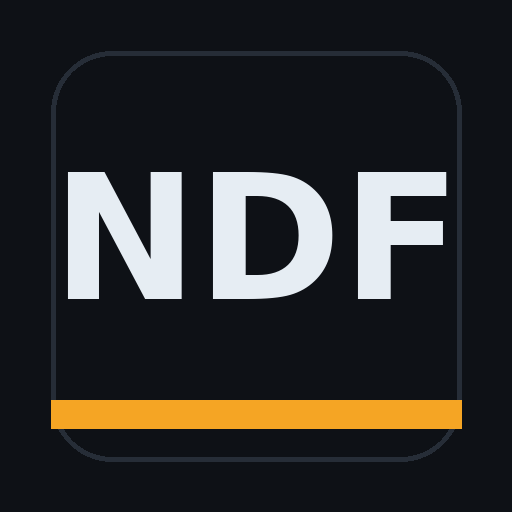
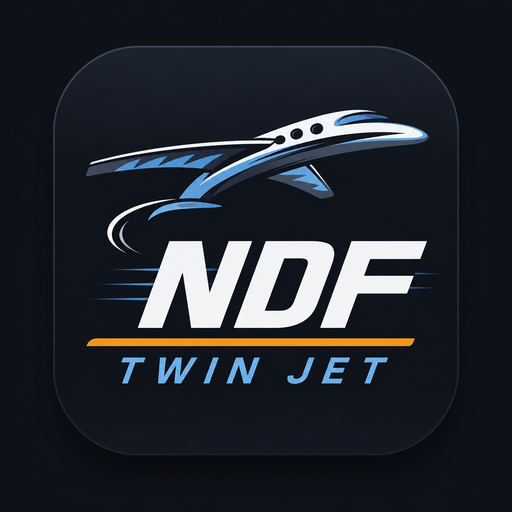
Add files via upload

Changed region(s): [[0.0938, 0.0938, 0.9062, 0.875], [0.1562, 0.875, 0.8438, 0.9062], [0.25, 0.0625, 0.75, 0.0938]]

diff --git a/index.html b/index.html
@@ -11,7 +11,7 @@
 <meta name="apple-mobile-web-app-capable" content="yes">
 <meta name="apple-mobile-web-app-status-bar-style" content="black">
 <meta name="apple-mobile-web-app-title" content="NDF">
-<link rel="apple-touch-icon" href="icon-192.png">
+<link rel="apple-touch-icon" href="apple-touch-icon.png">
 <style>
   :root{
     --ink:#0e1116; --panel:#161b22; --panel2:#1c232c; --line:#262d37;
@@ -471,81 +471,76 @@ function buildSheet(id){
   list.forEach(e=>{const ttc=effTTC(e);const{ht,tva}=splitHT(ttc,e.tva);tHT+=ht;tTVA+=tva;tTTC+=ttc;tTiers+=Number(e.tiers)||0;});
   const tKM=kms.reduce((s,k)=>s+kmTotal(k),0);
   const periode=n.type==="mission"?esc(n.date||""):esc(monthLabel(n.mois));
-  const veh=`${esc((kms[0]&&kms[0].marque)||n.vehMarque||"")}${((kms[0]&&kms[0].cv)||n.vehCV)?" "+esc((kms[0]&&kms[0].cv)||n.vehCV)+" CV":""}`;
-  const taux=kms[0]?num2(kms[0].taux||i.ik):"";
-  const ROWS=Math.max(29,list.length,kms.length+2);
-
+  /* Original : 24 rangées frais (11..34), 22 rangées km (11..32) + 2 totaux */
+  const FR=Math.max(24,list.length,kms.length+2);
+  const KR=FR-2;
   let fr="";
-  for(let r=0;r<ROWS;r++){const e=list[r];
+  for(let r=0;r<FR;r++){const e=list[r];
     if(e){const ttc=effTTC(e);const{ht,tva}=splitHT(ttc,e.tva);
       const lib=esc(e.libelle||"")+(e.repas?` (repas ×${e.couverts||1}${isCapped(e)?", plafonné":""})`:"");
-      fr+=`<tr><td>${esc(e.date||"")}</td><td>${esc(e.fournisseur||"")}</td><td class="lib">${lib}</td>`+
-          `<td class="num">${num2(ht)}</td><td class="num">${num2(tva)}</td><td class="num">${num2(ttc)}</td>`+
-          `<td class="num">${(Number(e.tiers)||0)?num2(e.tiers):""}</td></tr>`;
-    } else fr+=`<tr><td></td><td></td><td class="lib"></td><td class="num"></td><td class="num"></td><td class="num"></td><td class="num"></td></tr>`;
+      fr+=`<tr><td>${esc(e.date||"")}</td><td>${esc(e.fournisseur||"")}</td><td>${lib}</td><td>${num2(ht)}</td><td>${num2(tva)}</td><td>${num2(ttc)}</td><td>${(Number(e.tiers)||0)?num2(e.tiers):""}</td></tr>`;
+    } else fr+=`<tr><td></td><td></td><td></td><td></td><td></td><td></td><td></td></tr>`;
   }
-  let km="";const KROWS=ROWS-2;
-  for(let r=0;r<KROWS;r++){const k=kms[r];
-    if(k)km+=`<tr><td>${esc(k.depart||"")}</td><td>${esc(k.arrivee||"")}</td><td class="num">${num2(k.nbkm)}</td><td class="num">${num2(kmTotal(k))}</td></tr>`;
-    else km+=`<tr><td></td><td></td><td class="num"></td><td class="num"></td></tr>`;
+  let km="";
+  for(let r=0;r<KR;r++){const k=kms[r];
+    if(k)km+=`<tr><td>${esc(k.depart||"")}</td><td>${esc(k.arrivee||"")}</td><td>${num2(k.nbkm)}</td><td class="rt">${num2(kmTotal(k))}</td></tr>`;
+    else km+=`<tr><td></td><td></td><td></td><td class="rt"></td></tr>`;
   }
-  km+=`<tr class="ktot"><td colspan="3">TOTAL FRAIS KM</td><td class="num">${num2(tKM)}</td></tr>`;
-  km+=`<tr class="ttot"><td colspan="3">TOTAL FRAIS TTC</td><td class="num">${num2(tTTC)}</td></tr>`;
-
-  const cat=c=>`<span class="cb">${n.categorie===c?"✕":""}</span>${c}`;
+  km+=`<tr class="ktot"><td colspan="3">TOTAL FRAIS KM</td><td class="tv">${num2(tKM)}</td></tr>`;
+  km+=`<tr class="ttot"><td colspan="3">TOTAL FRAIS TTC</td><td class="tv">${num2(tTTC)}</td></tr>`;
+  const cb=c=>`<span class="cb">${n.categorie===c?"✕":""}</span>`;
+  const veh=`${esc((kms[0]&&kms[0].marque)||n.vehMarque||"")}${((kms[0]&&kms[0].cv)||n.vehCV)?" "+esc((kms[0]&&kms[0].cv)||n.vehCV)+" CV":""}`;
+  const taux=kms[0]?num2(kms[0].taux||i.ik):"";
 
   const inner=`<div class="tj">
-    <div class="spine"><div class="rot"><span class="stitle">TWINJET</span> <span class="ssub">PERSONNEL NAVIGANT</span></div></div>
-    <div class="main">
-      <div class="idrow">
-        <div class="lab">NOM</div><div class="val vnom">${esc(i.nom)}</div>
-        <div class="lab">Trigrame</div><div class="val">${esc(i.trigramme)}</div>
-        <div class="lab">Fonction</div><div class="val">${esc(i.fonction)}</div>
+   <div class="spine"><div class="rot"><span class="st">TWINJET</span><span class="ss">PERSONNEL NAVIGANT</span></div></div>
+   <div class="main">
+    <div class="hdr">
+      <div style="width:101px">NOM</div><div style="width:285px">${esc(i.nom)}</div><div style="width:127px">Trigrame</div><div style="width:257px">${esc(i.trigramme)}</div><div style="width:115px">Fonction</div><div style="width:162px">${esc(i.fonction)}</div>
+    </div>
+    <div class="zcats">
+      <div class="crow" style="top:8px">
+        <span class="cg" style="left:4px">${cb("Ligne")}<b>Ligne</b></span>
+        <span class="cg" style="left:221px">${cb("Charter")}<b>Charter</b></span>
+        <span class="cg" style="left:435px">${cb("Evasan")}<b>Evasan</b></span>
+        <span class="cg" style="left:744px">${cb("MEP")}<b>MEP</b></span>
       </div>
-      <div class="catrow">
-        <div class="cats">
-          <div>${cat("Ligne")}</div><div>${cat("Charter")}</div><div>${cat("Evasan")}</div><div>${cat("MEP")}</div>
-          <div>${cat("Commercial")}</div><div>${cat("Audit")}</div><div>${cat("Training/Formation")}</div><div>${cat("Administratif")}</div>
-        </div>
-        <div class="eq"><span class="k">Equipage :</span> ${esc(n.equipage||i.trigramme)}</div>
+      <div class="crow" style="top:36px">
+        <span class="cg" style="left:4px">${cb("Commercial")}<b>Commercial</b></span>
+        <span class="cg" style="left:221px">${cb("Audit")}<b>Audit</b></span>
+        <span class="cg" style="left:435px">${cb("Training/Formation")}<b>Training/Formation</b></span>
+        <span class="cg" style="left:744px">${cb("Administratif")}<b>Administratif</b></span>
       </div>
-      <div class="objrow">
-        <div class="ol">
-          <div class="objet"><span class="olab">Objet :</span> <span class="oval">${esc(n.objet||"")}</span></div>
-          <div class="dev">Devises et taux de conversion</div>
-        </div>
-        <div class="or">
-          <div class="veh"><span class="k">Véhicule : Marque CV</span><br>${veh}</div>
-          <div class="ik"><span class="k">Taux IK €</span><br>${taux}</div>
-        </div>
+      <div class="eqbox"><span class="u8">Equipage:</span> ${esc(n.equipage||i.trigramme)}</div>
+    </div>
+    <div class="zobj">
+      <div class="ob"><span class="olab">Objet :</span> <span class="oval">${esc(n.objet||"")}</span><span class="dev u8">Devises et taux de conversion</span></div>
+      <div class="ve"><span class="u8">Véhicule : Marque CV</span><div class="vv">${veh}</div></div>
+      <div class="ika"><span class="u8">Taux IK €</span><div class="vv">${taux}</div></div>
+    </div>
+    <div class="zbody">
+      <div class="fl">
+        <div class="fband">FRAIS</div>
+        <table class="tfr"><colgroup><col style="width:101px"><col style="width:120px"><col style="width:214px"><col style="width:76px"><col style="width:81px"><col style="width:70px"><col style="width:76px"></colgroup>
+          <thead><tr><th>Date</th><th>Fournisseur</th><th>Libellé</th><th>HT</th><th>TVA</th><th>TTC</th><th class="w2">DONT TIERS</th></tr></thead>
+          <tbody>${fr}</tbody></table>
       </div>
-      <div class="body">
-        <div class="left">
-          <div class="fraisband">FRAIS</div>
-          <table class="fr">
-            <thead><tr><th>Date</th><th>Fournisseur</th><th>Libellé</th><th class="num">HT</th><th class="num">TVA</th><th class="num">TTC</th><th class="num">DONT TIERS</th></tr></thead>
-            <tbody>${fr}</tbody>
-          </table>
-        </div>
-        <div class="right">
-          <table class="km">
-            <thead><tr><th>Départ</th><th>Arrivée</th><th class="num">NB KM</th><th class="num">Total €</th></tr></thead>
-            <tbody>${km}</tbody>
-          </table>
-        </div>
-      </div>
-      <div class="footrow">
-        <div class="fleft">
-          <div class="fcell"><span class="k">Observation</span></div>
-          <div class="fcell"><span class="k">Contrôle et validation</span></div>
-          <div class="fcell"><span class="k">Paiement</span></div>
-        </div>
-        <div class="gen"><div class="k">TOTAL GENERAL</div><div class="genv">${num2(tTTC+tKM)} €</div></div>
+      <div class="kr">
+        <table class="tkm"><colgroup><col style="width:75px"><col style="width:70px"><col style="width:66px"><col style="width:94px"></colgroup>
+          <thead><tr><th>Départ</th><th>Arrivée</th><th>NB KM</th><th>Total €</th></tr></thead>
+          <tbody>${km}</tbody></table>
       </div>
     </div>
+    <div class="zfoot">
+      <div class="fc" style="width:221px"><span class="u8">Observation</span></div>
+      <div class="fc" style="width:214px"><span class="u8">Contrôle et validation</span></div>
+      <div class="fc" style="width:305px"><span class="u8">Paiement</span></div>
+      <div class="tg" style="width:213px">TOTAL GENERAL</div>
+      <div class="tgv" style="width:94px">${num2(tTTC+tKM)} €</div>
+    </div>
+   </div>
   </div>
   <div class="ref">NOTE FRAIS V1 PN COMPTA 020524VB</div>`;
-
   const slug=(n.titre||n.vol||n.libelle||"note").toString().replace(/[^0-9A-Za-zÀ-ÿ]+/g,"_").slice(0,40);
   const fname=`NDF_${slug}_${periode.replace(/[^0-9A-Za-z]+/g,"-")}.pdf`;
   return {inner,fname};
@@ -553,76 +548,69 @@ function buildSheet(id){
 
 function pdfCSS(){return `
   *{box-sizing:border-box}
-  body{margin:0;background:#525659;color:#000;font-family:-apple-system,system-ui,Arial,sans-serif;font-size:11px}
-  .bar{position:sticky;top:0;display:flex;gap:12px;align-items:center;flex-wrap:wrap;background:#0b2545;color:#fff;padding:12px 16px;z-index:10}
+  body{margin:0;background:#525659;color:#000;font-family:Arial,'Helvetica Neue',Helvetica,sans-serif}
+  .bar{position:sticky;top:0;display:flex;gap:12px;align-items:center;flex-wrap:wrap;background:#0b2545;color:#fff;padding:12px 16px;z-index:10;font-size:15px}
   .bar button{background:#f5a524;color:#1a1306;border:none;border-radius:9px;font-weight:700;font-size:15px;padding:11px 16px;cursor:pointer;font-family:inherit}
   .bar span{font-size:12px;opacity:.85}
-  .page{background:#fff;max-width:1120px;margin:16px auto;padding:10px}
-  .tj{display:flex;border:2px solid #000}
-  .spine{position:relative;width:46px;border-right:2px solid #000}
-  .spine .rot{position:absolute;left:50%;top:50%;transform:translate(-50%,-50%) rotate(-90deg);white-space:nowrap;display:flex;align-items:baseline;gap:10px}
-  .spine .stitle{font-weight:800;font-style:italic;font-size:28px;letter-spacing:1px}
-  .spine .ssub{font-weight:700;font-style:italic;font-size:20px;letter-spacing:.5px}
-  .main{flex:1;min-width:0}
-  .k{font-size:8px;letter-spacing:.3px;color:#111;font-weight:700;font-style:italic;text-decoration:underline}
-  .idrow{display:flex;border-bottom:2px solid #000}
-  .idrow .lab{padding:4px 8px;border-right:1px solid #000;font-style:italic;font-weight:700;font-size:11px;display:flex;align-items:center;justify-content:center;white-space:nowrap}
-  .idrow .val{flex:1;padding:4px 10px;border-right:1px solid #000;font-style:italic;font-weight:700;font-size:13px;display:flex;align-items:center;justify-content:center}
-  .idrow .val.vnom{flex:1.5;justify-content:flex-start}
-  .idrow .val:last-child{border-right:none}
-  .catrow{display:flex;border-bottom:2px solid #000}
-  .cats{flex:1;display:flex;flex-wrap:wrap;align-content:flex-start}
-  .cats>div{flex:0 0 25%;display:flex;align-items:center;gap:5px;padding:5px 9px;border-right:1px solid #000;border-bottom:1px solid #000;font-weight:700;font-size:11px}
-  .cats>div:nth-child(4n){border-right:none}
-  .cats>div:nth-child(n+5){border-bottom:none}
-  .cb{width:13px;height:13px;border:1.4px solid #000;display:inline-flex;align-items:center;justify-content:center;font-weight:700;line-height:1;flex:none}
-  .eq{flex:0 0 210px;border-left:2px solid #000;padding:6px 9px;font-weight:700}
-  .objrow{display:flex;border-bottom:2px solid #000}
-  .ol{flex:0 0 64%;display:flex}
-  .ol .objet{flex:0 0 62%;padding:5px 9px;border-right:1px solid #000;display:flex;align-items:center;gap:6px}
-  .ol .objet .olab{font-weight:700;font-style:italic;text-decoration:underline;font-size:15px;white-space:nowrap}
-  .ol .objet .oval{font-weight:400;font-style:normal;font-size:13px}
-  .ol .dev{flex:1;padding:5px 9px;text-align:center;font-style:italic;font-weight:700;font-size:9px;text-decoration:underline}
-  .or{flex:1;display:flex;border-left:2px solid #000}
-  .or .veh{flex:1;padding:4px 9px;border-right:1px solid #000;font-style:italic}
-  .or .ik{flex:0 0 92px;padding:4px 9px;font-style:italic}
-  .body{display:flex}
-  .left{flex:0 0 64%;border-right:2px solid #000}
-  .fraisband{background:#fdeada;border-bottom:1px solid #000;text-align:center;font-weight:700;height:18px;line-height:18px}
-  table{width:100%;border-collapse:collapse;table-layout:fixed}
-  table.fr th,table.fr td{border-right:1px solid #000;border-bottom:1px solid #000;padding:1px 5px;height:18px;overflow:hidden;white-space:nowrap;text-overflow:ellipsis}
-  table.fr th{background:#fdeada;font-style:italic;font-size:10px;height:30px;white-space:normal;line-height:1.05;vertical-align:middle}
-  table.fr td{background:#fdeada}
-  table.fr th:last-child,table.fr td:last-child{border-right:none}
-  table.fr th:nth-child(1),table.fr td:nth-child(1){width:11%}
-  table.fr th:nth-child(2),table.fr td:nth-child(2){width:18%}
-  table.fr th:nth-child(3),table.fr td:nth-child(3){width:31%}
-  table.fr th:nth-child(4),table.fr td:nth-child(4){width:9%}
-  table.fr th:nth-child(5),table.fr td:nth-child(5){width:9%}
-  table.fr th:nth-child(6),table.fr td:nth-child(6){width:9%}
-  table.fr th:nth-child(7),table.fr td:nth-child(7){width:13%}
-  .num{text-align:right;font-variant-numeric:tabular-nums}
-  .right{flex:1}
-  table.km th,table.km td{border-right:1px solid #000;border-bottom:1px solid #000;padding:1px 5px;height:18px;overflow:hidden;white-space:nowrap}
-  table.km th{background:#dddddd;font-style:italic;font-size:10px;height:48px;vertical-align:middle}
-  table.km td{background:#dddddd}
-  table.km th:last-child,table.km td:last-child{border-right:none}
-  table.km th:nth-child(1),table.km td:nth-child(1){width:30%}
-  table.km th:nth-child(2),table.km td:nth-child(2){width:30%}
-  table.km th:nth-child(3),table.km td:nth-child(3){width:18%}
-  table.km th:nth-child(4),table.km td:nth-child(4){width:22%}
-  table.km .ktot td{background:#dddddd;font-weight:700;text-align:left}
-  table.km .ktot td.num,table.km .ttot td.num{text-align:right}
-  table.km .ttot td{background:#fdeada;font-weight:700;text-align:left}
-  .footrow{display:flex;border-top:2px solid #000}
-  .fleft{flex:0 0 64%;display:flex;border-right:2px solid #000}
-  .fleft .fcell{flex:1;border-right:1px solid #000;padding:5px 9px;min-height:50px;font-style:italic}
-  .fleft .fcell:last-child{border-right:none}
-  .gen{flex:1;display:flex;flex-direction:column;align-items:center;justify-content:center;gap:4px}
-  .gen .k{font-weight:700;font-size:13px;color:#000;font-style:normal;text-decoration:none}
-  .gen .genv{font-weight:700;font-style:italic;text-decoration:underline;font-size:16px;font-family:ui-monospace,Menlo,monospace}
-  .ref{font-size:8px;color:#555;padding:5px 2px 0;font-family:ui-monospace,Menlo,monospace}
-  @media print{.bar{display:none}.page{margin:0;padding:0;max-width:none}body{background:#fff}@page{size:A4 landscape;margin:8mm}}
+  .page{background:#fff;width:1148px;margin:16px auto;padding:0}
+  .tj{display:flex;width:1148px;border:2px solid #000;background:#fff}
+  /* Bande verticale : TWINJET 36pt / PERSONNEL NAVIGANT 26pt, gras italique */
+  .spine{width:97px;border-right:2px solid #000;position:relative}
+  .rot{position:absolute;left:50%;top:50%;transform:translate(-50%,-50%) rotate(-90deg);white-space:nowrap;display:flex;align-items:baseline;gap:34px}
+  .st{font-size:48px;font-weight:bold;font-style:italic;letter-spacing:1px}
+  .ss{font-size:35px;font-weight:bold;font-style:italic;letter-spacing:.5px}
+  .main{width:1047px}
+  /* R2 : Arial 14 gras italique, centré, AUCUN séparateur vertical */
+  .hdr{display:flex;height:29px;border-bottom:2px solid #000;font-size:19px;font-weight:bold;font-style:italic}
+  .hdr div{display:flex;align-items:center;justify-content:center;overflow:hidden;white-space:nowrap}
+  /* Catégories : Arial 12 gras, cases = cellules bordées, zone ouverte sans traits */
+  .zcats{position:relative;height:63px;border-bottom:2px solid #000}
+  .crow{position:absolute;left:0;right:0;height:19px}
+  .cg{position:absolute;display:flex;align-items:center;gap:4px;height:19px;font-size:16px}
+  .cg b{font-weight:bold}
+  .cb{width:29px;height:19px;border:2px solid #000;display:inline-flex;align-items:center;justify-content:center;font-size:14px;font-weight:bold;flex:none}
+  .u8{font-size:11px;font-weight:bold;font-style:italic;text-decoration:underline}
+  .eqbox{position:absolute;right:0;top:8px;width:162px;height:46px;border:1px solid #000;padding:2px 5px;font-size:15px;font-weight:bold}
+  .eqbox .u8{font-size:15px;font-style:normal}
+  /* R8 : Objet Arial 16 ; petits titres Arial 8 soulignés, haut-gauche */
+  .zobj{display:flex;height:37px}
+  .ob{width:740px;border-bottom:2px solid #000;border-right:2px solid #000;padding:1px 5px;position:relative;overflow:hidden}
+  .olab{font-size:21px;font-weight:bold;font-style:italic;text-decoration:underline}
+  .oval{font-size:21px;font-weight:bold;font-style:italic}
+  .dev{position:absolute;left:435px;top:2px}
+  .ve{width:209px;border-bottom:1px solid #000;border-right:1px solid #000;padding:1px 5px}
+  .ika{width:98px;border-bottom:1px solid #000;padding:1px 5px}
+  .vv{font-size:14px;font-style:italic}
+  /* Corps */
+  .zbody{display:flex}
+  .fl{width:740px;border-right:2px solid #000}
+  .fband{height:24px;background:#FDEADA;border-bottom:2px solid #000;text-align:center;font-weight:bold;font-size:16px;line-height:21px}
+  table{border-collapse:collapse;table-layout:fixed}
+  .tfr{width:738px}
+  .tfr th{height:35px;background:#FDEADA;font-size:13px;font-weight:bold;font-style:italic;border-right:1px solid #000;border-bottom:2px solid #000;text-align:center;vertical-align:middle;padding:0 2px}
+  .tfr th.w2{white-space:normal;line-height:1.05}
+  .tfr th:last-child{border-right:none}
+  .tfr td{height:24px;background:#FDEADA;font-size:16px;text-align:center;vertical-align:middle;border-right:1px solid #000;border-bottom:1px solid #000;overflow:hidden;white-space:nowrap;text-overflow:ellipsis;padding:0 3px}
+  .tfr td:last-child{border-right:none}
+  .tfr tr:last-child td{border-bottom:none}
+  .kr{width:307px}
+  .tkm{width:307px}
+  .tkm th{height:59px;background:#DDDDDD;font-size:13px;font-weight:bold;font-style:italic;text-align:center;vertical-align:middle;border-right:1px solid #000;border-bottom:1px solid #000;padding:0 2px}
+  .tkm th:last-child{border-right:none}
+  .tkm td{height:24px;background:#DDDDDD;font-size:16px;text-align:center;vertical-align:middle;border-right:1px solid #000;border-bottom:1px solid #000;overflow:hidden;white-space:nowrap;padding:0 3px}
+  .tkm td:last-child{border-right:none}
+  .tkm td.rt{text-align:right;padding-right:6px}
+  .tkm .ktot td{font-weight:bold;font-size:13px}
+  .tkm .ktot td.tv,.tkm .ttot td.tv{font-size:16px;font-weight:bold;font-style:italic;text-align:right;padding-right:6px}
+  .tkm .ttot td{background:#FDEADA;font-weight:bold;font-size:13px;border-top:2px solid #000}
+  .tkm tr:last-child td{border-bottom:none}
+  /* Bas : libellés Arial 8 soulignés haut-gauche ; TOTAL GENERAL 12 / valeur 14 soulignée */
+  .zfoot{display:flex;height:55px;border-top:2px solid #000}
+  .fc{border-right:2px solid #000;padding:2px 5px}
+  .tg{border-right:2px solid #000;display:flex;align-items:center;justify-content:center;font-size:16px;font-weight:bold}
+  .tgv{display:flex;align-items:center;justify-content:center;font-size:19px;font-weight:bold;font-style:italic;text-decoration:underline}
+  .ref{font-size:10px;padding:4px 2px 0;color:#000}
+  @media print{.bar{display:none}.page{margin:0}body{background:#fff;zoom:.93}@page{size:A4 landscape;margin:6mm}}
 `;}
 
 function openOrDownload(inner,fname){
@@ -656,16 +644,16 @@ async function generatePDF(id){
   // Repli si les librairies ne sont pas présentes (ex. fichier autonome) : ancienne voie impression
   if(!(window.jspdf && window.html2canvas)){ openOrDownload(inner, fname.replace(/\.pdf$/,".html")); return; }
   const ifr=document.createElement("iframe");
-  ifr.style.cssText="position:fixed;left:-99999px;top:0;width:1123px;height:1300px;border:0;background:#fff";
+  ifr.style.cssText="position:fixed;left:-99999px;top:0;width:1170px;height:1400px;border:0;background:#fff";
   document.body.appendChild(ifr);
   try{
     const d=ifr.contentDocument;
     d.open();
-    d.write(`<!DOCTYPE html><html><head><meta charset="utf-8"><style>${pdfCSS()} body{background:#fff;margin:0} .page{margin:0;max-width:none;padding:0;width:1123px}</style></head><body><div class="page">${inner}</div></body></html>`);
+    d.write(`<!DOCTYPE html><html><head><meta charset="utf-8"><style>${pdfCSS()} body{background:#fff;margin:0} .page{margin:0;max-width:none;padding:0;width:1148px}</style></head><body><div class="page">${inner}</div></body></html>`);
     d.close();
     await new Promise(r=>setTimeout(r,350));
     const el=d.querySelector(".page");
-    const canvas=await window.html2canvas(el,{scale:2,backgroundColor:"#ffffff",useCORS:true,logging:false,width:el.scrollWidth,height:el.scrollHeight,windowWidth:1123});
+    const canvas=await window.html2canvas(el,{scale:2,backgroundColor:"#ffffff",useCORS:true,logging:false,width:el.scrollWidth,height:el.scrollHeight,windowWidth:1148});
     const JS=window.jspdf.jsPDF;
     const pdf=new JS({orientation:"landscape",unit:"mm",format:"a4"});
     const pw=pdf.internal.pageSize.getWidth(), ph=pdf.internal.pageSize.getHeight();

diff --git a/sw.js b/sw.js
@@ -1,6 +1,6 @@
 /* NDF Twin Jet — service worker (app shell, cache-first) */
-const CACHE = "ndf-v14";
-const ASSETS = ["./", "./index.html", "./manifest.webmanifest", "./icon-192.png", "./icon-512.png", "./jspdf.umd.min.js", "./html2canvas.min.js"];
+const CACHE = "ndf-v18";
+const ASSETS = ["./", "./index.html", "./manifest.webmanifest", "./icon-192.png", "./icon-512.png", "./icon-512-maskable.png", "./apple-touch-icon.png", "./jspdf.umd.min.js", "./html2canvas.min.js"];
 
 self.addEventListener("install", (e) => {
   e.waitUntil(caches.open(CACHE).then((c) => c.addAll(ASSETS)).then(() => self.skipWaiting()));